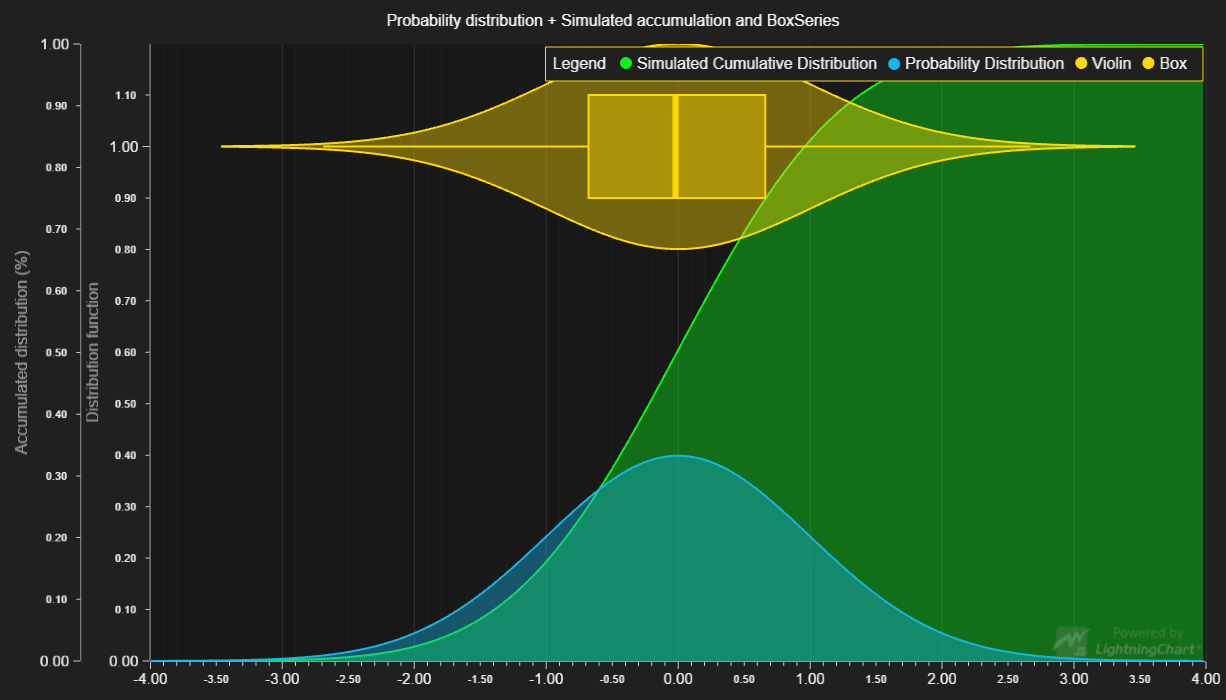
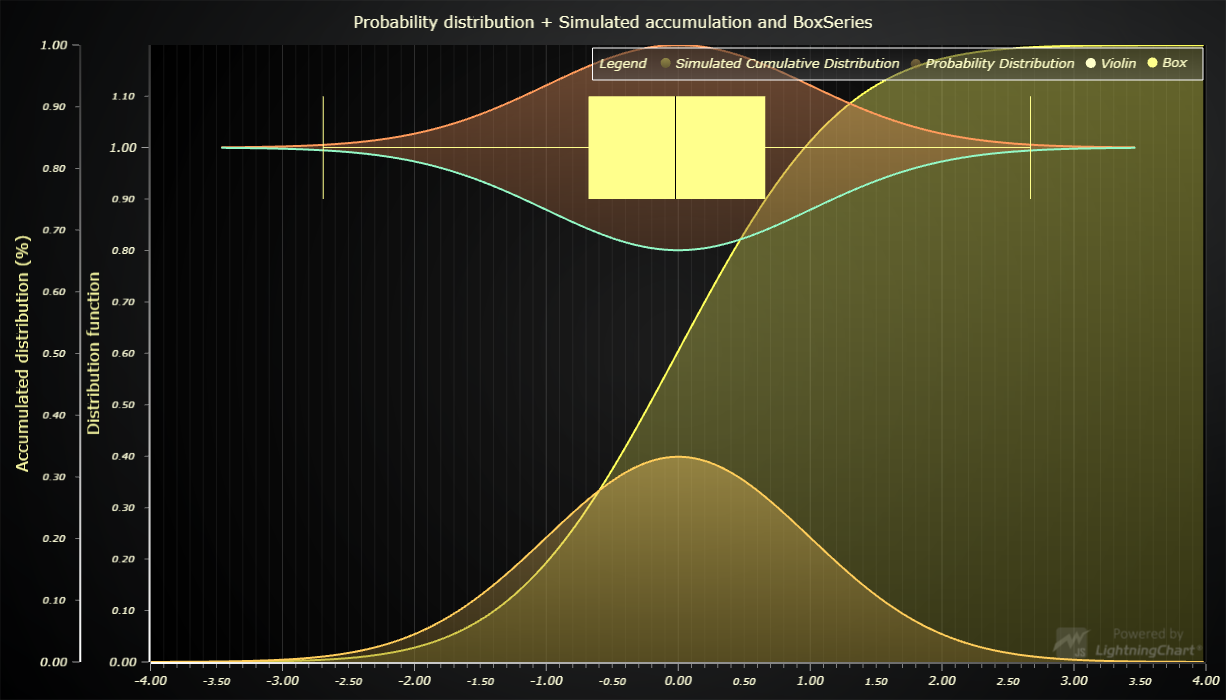
Update LCJS version

diff --git a/src/index.js b/src/index.js
@@ -6,18 +6,13 @@ const lcjs = require('@arction/lcjs')
 
 // Extract required parts from LightningChartJS.
 const {
-    ColorPalettes,
-    SolidFill,
-    SolidLine,
     emptyLine,
     lightningChart,
     yDimensionStrategy,
     LegendBoxBuilders,
-    UIDraggingModes,
     AxisScrollStrategies,
     AxisTickStrategies,
     AutoCursorModes,
-    UIOrigins,
     Themes
 } = lcjs
 
@@ -25,18 +20,6 @@ const {
 const {
     createProgressiveFunctionGenerator
 } = require('@arction/xydata')
-
-// ----- Cache used styles -----
-const palette = ColorPalettes.arction(10)
-const colors = [2, 4, 0, 0].map(palette)
-const Style = (color) => {
-    const solidFill = new SolidFill({ color })
-    const opaqueFill = new SolidFill({ color: color.setA(100) })
-    const solidLine = new SolidLine({ fillStyle: solidFill, thickness: 2 })
-    return { solidFill, opaqueFill, solidLine }
-}
-const styles = colors.map(Style)
-const medianStrokeStyle = new SolidLine({ fillStyle: new SolidFill({ color: colors[3] }), thickness: 6 })
 
 // Utilities for graphing distribution functions.
 //#region
@@ -93,7 +76,7 @@ const probabilityDistribution = (mean, variance) =>
 
 // Make chart with series graphing standard probability density and cumulative distribution functions.
 const chart = lightningChart().ChartXY({
-    // theme: Themes.dark 
+    // theme: Themes.darkGold 
 })
     .setTitle('Probability distribution + Simulated accumulation and BoxSeries')
     // Set auto-cursor mode to 'onHover'
@@ -162,33 +145,18 @@ axisNormalized
 // Cumulative distribution.
 const cumulativeDistributionSeries = chart.addAreaSeries({ yAxis: axisNormalized })
     .setName('Simulated Cumulative Distribution')
-    .setFillStyle(styles[0].opaqueFill)
-    .setStrokeStyle(styles[0].solidLine)
 
 // Probability distribution.
 const probabilityDistributionSeries = chart.addAreaSeries({ yAxis: axisDistribution })
     .setName('Probability Distribution')
-    .setFillStyle(styles[1].opaqueFill)
-    .setStrokeStyle(styles[1].solidLine)
 
 // 'Violin' series.
 const violinSeries = chart.addAreaRangeSeries({ yAxis: axisDistribution })
     .setName('Violin')
-    .setHighFillStyle(styles[2].opaqueFill)
-    .setLowFillStyle(styles[2].opaqueFill)
-    .setHighStrokeStyle(styles[2].solidLine)
-    .setLowStrokeStyle(styles[2].solidLine)
 
 // Box series.
 const boxSeries = chart.addBoxSeries({ yAxis: axisDistribution, dimensionStrategy: yDimensionStrategy })
     .setName('Box')
-    .setDefaultStyle((boxAndWhiskers) => boxAndWhiskers
-        .setBodyFillStyle(styles[2].opaqueFill)
-        .setBodyStrokeStyle(styles[2].solidLine)
-        .setStrokeStyle(styles[2].solidLine)
-        .setMedianStrokeStyle(medianStrokeStyle)
-        .setTailWidth(0)
-    )
 
 // Drawing logic
 //#region
@@ -266,6 +234,11 @@ graphDistribution(0, 1)
 
 // Add LegendBox as part of chart.
 const legend = chart.addLegendBox(LegendBoxBuilders.HorizontalLegendBox )
+    // Dispose example UI elements automatically if they take too much space. This is to avoid bad UI on mobile / etc. devices.
+    .setAutoDispose({
+        type: 'max-width',
+        maxWidth: 0.80,
+    })
 legend.add(chart)
 
 cumulativeDistributionSeries.setCursorResultTableFormatter((tableBuilder, rangeSeries, position, high, low) => {

diff --git a/webpack.config.js b/webpack.config.js
@@ -69,7 +69,8 @@ module.exports = {
         }),
         new CopyWebpackPlugin({
             patterns: [
-                { from: './assets/**/*', to: './examples/assets', flatten: true, noErrorOnMissing: true }
+                { from: './assets/**/*', to: './examples/assets', flatten: true, noErrorOnMissing: true },
+                { from: './node_modules/@arction/lcjs/dist/resources', to: 'resources', noErrorOnMissing: true },
             ]
         })
     ]

diff --git a/README.md b/README.md
@@ -60,17 +60,17 @@ Direct developer email support can be purchased through a [Support Plan][4] or b
 © Arction Ltd 2009-2020. All rights reserved.
 
 
-[Color palettes]: https://www.arction.com/lightningchart-js-api-documentation/v3.0.1/globals.html#colorpalettes
-[Solid FillStyle]: https://www.arction.com/lightningchart-js-api-documentation/v3.0.1/classes/solidfill.html
-[Solid LineStyle]: https://www.arction.com/lightningchart-js-api-documentation/v3.0.1/classes/solidline.html
-[XY cartesian chart]: https://www.arction.com/lightningchart-js-api-documentation/v3.0.1/classes/chartxy.html
-[cursor modes]: https://www.arction.com/lightningchart-js-api-documentation/v3.0.1/enums/autocursormodes.html
-[cursor]: https://www.arction.com/lightningchart-js-api-documentation/v3.0.1/interfaces/autocursorxy.html
-[Axis]: https://www.arction.com/lightningchart-js-api-documentation/v3.0.1/classes/axis.html
-[Scroll strategies]: https://www.arction.com/lightningchart-js-api-documentation/v3.0.1/globals.html#axisscrollstrategies
-[Box series]: https://www.arction.com/lightningchart-js-api-documentation/v3.0.1/classes/boxseries.html
-[Box and whiskers Figure]: https://www.arction.com/lightningchart-js-api-documentation/v3.0.1/classes/boxandwhiskers.html
-[Horizontal Legend box]: https://www.arction.com/lightningchart-js-api-documentation/v3.0.1/globals.html#legendboxbuilders.horizontallegendbox
-[UI dragging modes]: https://www.arction.com/lightningchart-js-api-documentation/v3.0.1/enums/uidraggingmodes.html
-[UI position origins]: https://www.arction.com/lightningchart-js-api-documentation/v3.0.1/globals.html#uiorigins
+[Color palettes]: https://www.arction.com/lightningchart-js-api-documentation/v3.1.0/globals.html#colorpalettes
+[Solid FillStyle]: https://www.arction.com/lightningchart-js-api-documentation/v3.1.0/classes/solidfill.html
+[Solid LineStyle]: https://www.arction.com/lightningchart-js-api-documentation/v3.1.0/classes/solidline.html
+[XY cartesian chart]: https://www.arction.com/lightningchart-js-api-documentation/v3.1.0/classes/chartxy.html
+[cursor modes]: https://www.arction.com/lightningchart-js-api-documentation/v3.1.0/enums/autocursormodes.html
+[cursor]: https://www.arction.com/lightningchart-js-api-documentation/v3.1.0/interfaces/autocursorxy.html
+[Axis]: https://www.arction.com/lightningchart-js-api-documentation/v3.1.0/classes/axis.html
+[Scroll strategies]: https://www.arction.com/lightningchart-js-api-documentation/v3.1.0/globals.html#axisscrollstrategies
+[Box series]: https://www.arction.com/lightningchart-js-api-documentation/v3.1.0/classes/boxseries.html
+[Box and whiskers Figure]: https://www.arction.com/lightningchart-js-api-documentation/v3.1.0/classes/boxandwhiskers.html
+[Horizontal Legend box]: https://www.arction.com/lightningchart-js-api-documentation/v3.1.0/globals.html#legendboxbuilders.horizontallegendbox
+[UI dragging modes]: https://www.arction.com/lightningchart-js-api-documentation/v3.1.0/enums/uidraggingmodes.html
+[UI position origins]: https://www.arction.com/lightningchart-js-api-documentation/v3.1.0/globals.html#uiorigins
 
